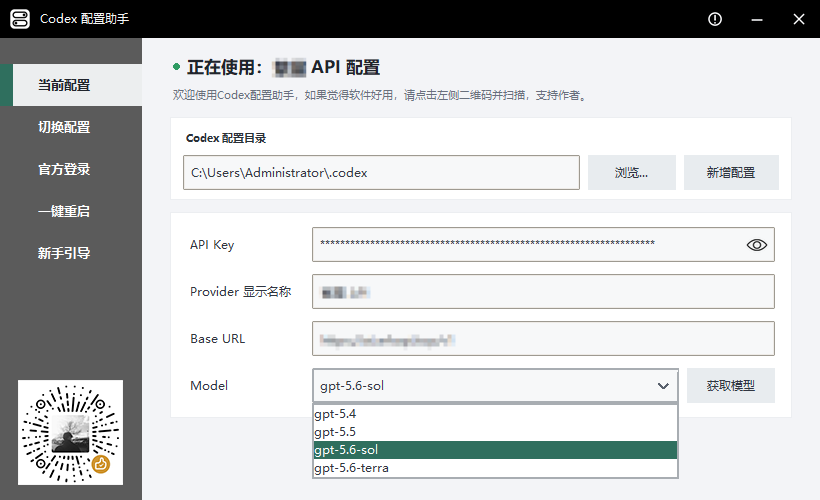
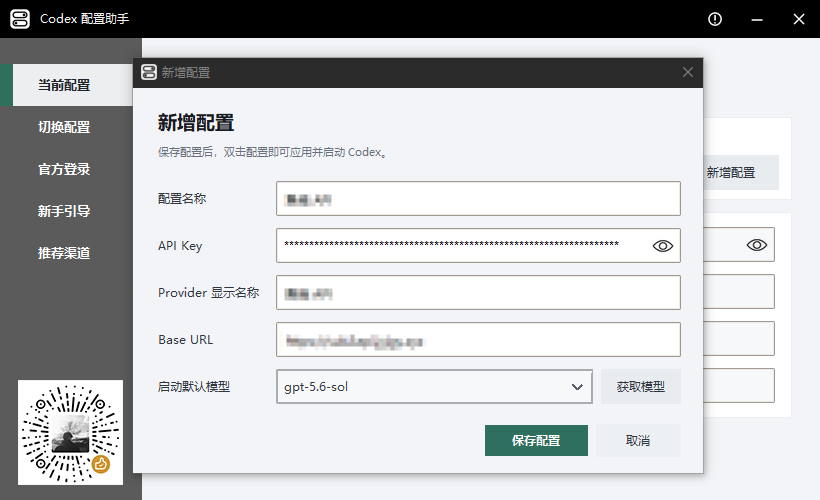
docs: 更新新增与编辑配置脱敏截图

diff --git a/docs/ai/PROJECT_STATUS.md b/docs/ai/PROJECT_STATUS.md
@@ -3,10 +3,10 @@
 - 阶段：Release
 - 当前节点：v1.4.0 正式发布
 - 状态：GO；源码、文档、截图和两个正式产物已验证，`v1.4.0` 以本提交作为发布源
-- 已完成：当前配置页模型只读；新增/编辑仅单一保存并原子持久化完整模型列表；活动配置编辑使用待应用标记；双击配置统一应用、启动和自动重启；API/官方/API 往返不删除会话或聊天记录
+- 已完成：当前配置页模型只读；新增/编辑仅单一保存并原子持久化完整模型列表；活动配置编辑使用待应用标记；双击配置统一应用、启动和自动重启；API/官方/API 往返不删除会话或聊天记录；8 张 README 正式截图已更新并对连接信息脱敏
 - 本轮修复：双击当前配置在 Codex 停止时可启动；待应用副本不会被旧 live 配置反向覆盖；运行且无修改时不重复重启；事务失败恢复 live、配置库、活动和待应用标记；新增/编辑提示合并到按钮行并移除常驻空白；推荐渠道新增 JM2 API
 - 验证：Python 3.12.13 语法检查、118 项标准库测试、`git diff --check`、PyInstaller 6.20.0 干净单文件构建、Inno Setup 6.7.3 编译、Windows 版本资源、JM2 打包资源及隔离启动通过；未修改真实 `.codex`、API Key 或聊天数据
[1 lines of base64/hex data omitted]
 - 下一步：客户复测双击当前配置启动、活动配置待应用、A→B→A 自动生命周期、聊天保留、任务栏和系统托盘
 - Git：本提交快进推送到 `origin/main`，并作为重建后的 `v1.4.0` 标签与 Release 源码
-- 相关记录：CR-006、CR-007、CR-008、BUG-004、P-006J、P-007A、P-007B、P-007C、DEV-031、TEST-006、TEST-007
+- 相关记录：CR-006、CR-007、CR-008、BUG-004、P-006J、P-007A、P-007B、P-007C、DEV-031、DEV-032、TEST-006、TEST-007

diff --git a/docs/ai/CHANGE_REQUESTS.md b/docs/ai/CHANGE_REQUESTS.md
@@ -5,9 +5,9 @@
 提出：2026-09-01
 原始请求：整理当前源码和文档，使用客户提供的新版界面截图更新项目说明，将最新已验证源码提交到 GitHub，并按现有版式重建 `v1.4.0` 发布包、标签和发布页。
 状态：RETEST
-验收标准：源码仓库不包含构建输出、缓存、真实用户配置或误展开的本地目录；README 和发布说明与当前行为一致；7 张正式界面截图更新；118 项测试及发布构建通过；`main` 快进更新；`v1.4.0` 标签、源码归档、说明与两个新资产指向同一发布提交；`v1.0.0` 至 `v1.3.0` 不变。
-实现与验证：源码整理、截图更新、完整测试、双包构建、版本资源、JM2 图标打包、隔离启动和 SHA-256 核验已通过；`main`、`v1.4.0` 标签、Release 说明、两个资产和 GitHub 源码归档统一以本提交为发布源。真实 Codex 工作流保留为客户复测项。
-相关记录：P-007A、P-007B、P-007C、DEV-031、TEST-007
+验收标准：源码仓库不包含构建输出、缓存、真实用户配置或误展开的本地目录；README 和发布说明与当前行为一致；8 张正式界面截图更新并隐藏连接信息；118 项测试及发布构建通过；`main` 快进更新；`v1.4.0` 标签、源码归档、说明与两个新资产指向同一发布提交；`v1.0.0` 至 `v1.3.0` 不变。
+实现与验证：源码整理、8 张截图更新、完整测试、双包构建、版本资源、JM2 图标打包、隔离启动和 SHA-256 核验已通过；新增与编辑配置截图使用客户重新提供的脱敏版本，未把包含明文 Base URL 的旧附件写入仓库；`main`、`v1.4.0` 标签、Release 说明、两个资产和 GitHub 源码归档统一以本提交为发布源。真实 Codex 工作流保留为客户复测项。
+相关记录：P-007A、P-007B、P-007C、DEV-031、DEV-032、TEST-007
 
 ## CR-006 - 每配置模型目录持久化与 Codex 内模型切换
 

diff --git a/docs/ai/DEVELOPMENT_LOG.md b/docs/ai/DEVELOPMENT_LOG.md
@@ -348,3 +348,13 @@
 结果：发布候选为 GO；`main`、`v1.4.0` 标签、Release 说明、两个资产和 GitHub 源码归档统一以本提交为发布源。
 待处理 Git 操作：无；`v1.0.0` 至 `v1.3.0` 保持不变。
 下一步：客户复测真实 Codex 配置切换、任务栏和系统托盘流程。
+
+## DEV-032 - 2026-09-01 - 补换新增与编辑配置脱敏截图
+
+阶段和模式：Release correction
+相关 ID：CR-008、P-007A、TEST-007
+客户反馈：README 的新增与编辑配置截图未随其他界面更新；首次补发截图包含可识别 Base URL，随即提供了重新模糊连接信息的版本。
+工作内容：只将第二张脱敏附件写入 `docs/images/model-dropdown.png`；第一张包含明文连接地址的附件未写入仓库、未提交、未推送或上传 Release。同步将发布记录中的正式截图数量修正为 8 张。
[1 lines of base64/hex data omitted]
+结果：截图修正完成，不影响已验证源码和两个 EXE 的内容及 SHA-256。
+待处理 Git 操作：将本次文档修正快进推送到 `main` 并再次移动 `v1.4.0` 到修正提交，然后继续重建现有 Release。

diff --git a/docs/ai/PROJECT_PLAN.md b/docs/ai/PROJECT_PLAN.md
@@ -4,7 +4,7 @@
 
 | 节点 | 依赖 | 输出与验收 | 状态 |
 | --- | --- | --- | --- |
-| P-007A 源码与文档整理 | P-006J、CR-007 | 清理发布说明中的过时行为，更新 7 张正式界面截图，排除本地误展开目录 | DONE |
+| P-007A 源码与文档整理 | P-006J、CR-007 | 清理发布说明中的过时行为，更新 8 张正式界面截图，排除本地误展开目录 | DONE |
 | P-007B 发布候选验证 | P-007A | 118 项测试、差异检查、双包构建、版本/资源/隔离启动和 SHA-256 核验 | DONE |
 | P-007C GitHub 发布事务 | P-007B、GitHub 登录 | 提交并快进推送 `main`，移动 `v1.4.0` 到发布提交，替换两个资产并更新发布说明 | DONE |
 
@@ -16,7 +16,7 @@
 
 回滚点：旧 `v1.4.0` 标签提交 `12b5086c11d40d1a7b70b0ffddedab59e6c834ec`，旧 Release ID `377653760` 和两个旧资产 ID `533361707`、`533361556`。
 
-相关记录：CR-008、DEV-031、TEST-007。
+相关记录：CR-008、DEV-031、DEV-032、TEST-007。
 
 ## 当前里程碑：每配置模型目录与 Codex 内切换预览版
 

diff --git a/docs/CHANGELOG.md b/docs/CHANGELOG.md
@@ -37,7 +37,7 @@
 - 新增“推荐渠道”页面，提供 AI Ark API 和 JM2 API 网站入口并支持默认浏览器打开
 - 新增供应商模型列表获取与下拉选择，并在新增、编辑窗口保留 Model 手动输入
 - 修复官方登录模式切换时删除配置文件导致聊天记录和会话状态丢失的问题
-- 更新 README 的当前配置、配置列表、官方登录、新手引导、推荐渠道、关于和赞赏界面截图
+- 更新 README 的当前配置、新增与编辑配置、配置列表、官方登录、新手引导、推荐渠道、关于和赞赏界面截图
 - 精简官方登录页面和确认提示，避免说明文字超出面板边界
 - 修正官方登录页面说明，明确不会删除 `auth.json`、`config.toml` 或会话数据
 - 官方登录与 API 配置切换改为非破坏性字段合并，不再删除 `auth.json` 或 `config.toml`
